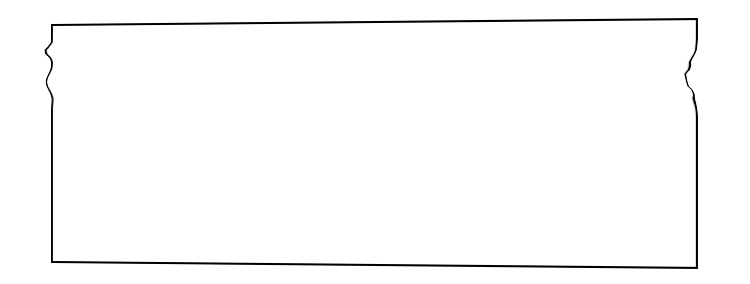
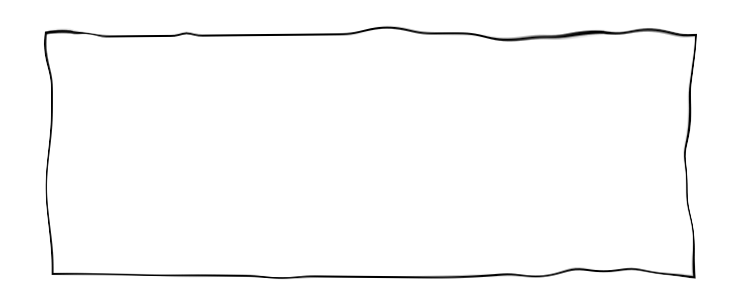
Added new borders

diff --git a/index.css b/index.css
@@ -95,7 +95,7 @@ div > .spinner .rect4 {
 .chat-box{
   box-sizing:border-box;
   border:60px solid;
-  border-image: url(FoodStuff2017/chat_border.png) 100;
+  border-image: url(FoodStuff2017/chat_border.png) 155 100 100 100;
 }
 
 .slider-box{
@@ -103,13 +103,13 @@ div > .spinner .rect4 {
   border: 79px solid;
   border-top: 56px solid;
   border-bottom: 26px solid;
-  border-image: url(FoodStuff2017/schedule_border.png) 67 148 24 131;
+  border-image: url(FoodStuff2017/schedule_border.png) 67 148 41 131;
 }
 
 .map-box{
   box-sizing: border-box;
   border: 55px solid;
-  border-image: url(FoodStuff2017/map_border.png) 100;
+  border-image: url(FoodStuff2017/map_border.png) 100 100 60 100;
 }
 
 .popsicle-boxicle{
